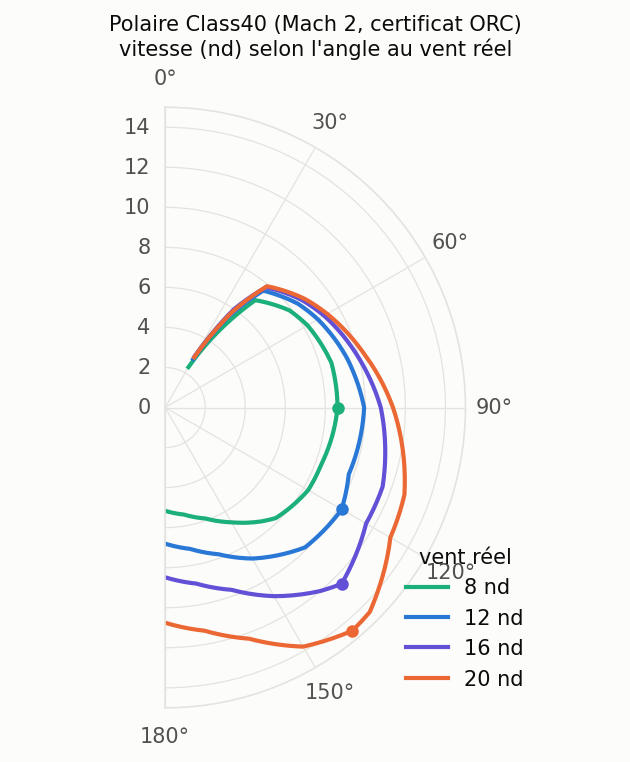
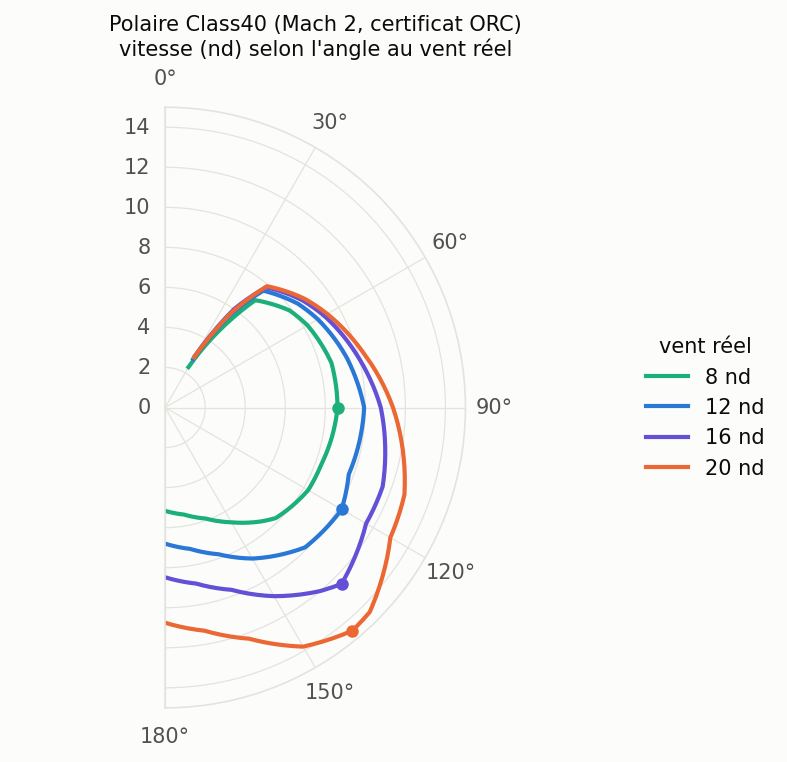
Robust control post: wind scenarios figure, ensemble routes against the direct route and the Azores, polar legend

diff --git a/_posts/2026-11-22-controlerobuste.md b/_posts/2026-11-22-controlerobuste.md
@@ -43,6 +43,11 @@ J'ai utilisé l'ensemble GEFS, gratuit et publié toutes les six heures, sur une
 ![Panache des 31 membres GEFS](/assets/img/posts/controlerobuste/panache_gefs.png)
 _Le vent prévu par les 31 membres en un point situé au milieu de l'Atlantique nord, sur le chemin des IMOCA, pour le run du matin du départ. Les membres restent groupés pendant deux jours. L'écart type passe de 2 nœuds à J+1 à 4 nœuds à J+3, puis à près de 9 nœuds à J+7, autant dire qu'à cette échéance la prévision ne dit plus grand-chose en ce point._
 
+Une carte rend la divergence plus concrète. Voici trois membres du même run, quatre jours après le départ.
+
+![Trois scénarios de vent à J+4](/assets/img/posts/controlerobuste/trois_scenarios.png)
+_Le vent prévu le 5 novembre à 12 h UTC par trois membres GEFS partis du même état initial. La couleur donne la force du vent, les flèches le sens dans lequel il souffle, et les lignes fines les isobares. En orange, la route IMOCA optimale dans chaque scénario, en trait plein jusqu'à cette date. Dans le membre de contrôle, une dépression creusée vers 40° N 30° O se trouve sur le chemin de la flotte. Dans le membre 17, la dépression est moins creuse et plus au sud, et le bateau a déjà atteint 46° N par le nord. Dans le membre 14, une dépression plus creuse se trouve au nord, vers 50° N, et le bateau passe plus au sud. Trois scénarios plausibles, et jusqu'à 300 milles d'écart entre les positions du bateau au bout de quatre jours._
+
 ## Calculer la meilleure route pour une météo donnée
 
 Commençons par le cas simple où l'on connaît la météo. On cherche la suite de caps qui amène le bateau le plus vite possible à l'arrivée, sachant que le vent change selon le lieu et l'heure. Le mathématicien Ernst Zermelo a posé ce problème dès 1931, pour un navire pris dans un vent variable. Dans le langage de mon article sur [la pensée systémique](/posts/systemthinking/), c'est un système en espace d'état. L'état est la position du bateau, la commande est le cap.
@@ -95,7 +100,7 @@ Cette dualité a une histoire qui nous servira plus loin. En octobre 1947, Georg
 Revenons à l'incertitude. Avec un ensemble de 31 membres, je lance le calcul des isochrones 31 fois, une fois par scénario. J'obtiens 31 routes optimales $$ r_1, \dots, r_{31} $$. Quand on les superpose sur une carte, on obtient un plat de spaghettis. Certaines passent au nord, d'autres au sud, certaines se ressemblent beaucoup.
 
 ![Les 31 routes d'ensemble](/assets/img/posts/controlerobuste/spaghettis_gefs.png)
-_Les 31 routes optimales d'un IMOCA au départ, une par membre GEFS. Elles restent groupées pendant 48 heures, puis se séparent. Un groupe de 11 routes monte au nord, les 20 autres restent plus au sud. Selon le scénario, la traversée prend de 10,6 à 14 jours._
+_Les 31 routes optimales d'un IMOCA au départ, une par membre GEFS. Chaque route est colorée selon la latitude à laquelle elle franchit le méridien 30° O, du plus clair au sud au plus foncé au nord. Les routes restent groupées pendant deux jours, puis s'ouvrent en éventail. Au passage de 30° O, elles s'étalent de 40° à 48° N, sans former deux groupes nets. En pointillé, la route directe, le plus court chemin légal de 3 577 milles. Presque toutes les routes passent au nord de la route directe et toutes passent au nord des Açores. Aucun scénario ne conseillait cette année la route sud classique, qui descend chercher les alizés au large des Canaries. La latitude de passage ne dit presque rien de la durée, qui va de 10,6 à 14 jours selon le scénario. Passer plus ou moins au nord n'est ni bon ni mauvais en soi, tout dépend de la météo qui se réalise._
 
 Chacune de ces routes est la meilleure dans son propre monde. Pour savoir ce qu'elle vaut ailleurs, je fais naviguer chaque route $$ r_i $$ dans chaque scénario $$ s_j $$. J'obtiens une matrice de temps de parcours $$ T_{ij} $$, le temps de la route $$ i $$ quand la météo est celle du scénario $$ j $$. Par construction, la meilleure valeur de chaque colonne se trouve sur la diagonale, puisque la route $$ r_j $$ a été calculée pour le scénario $$ j $$.
 
